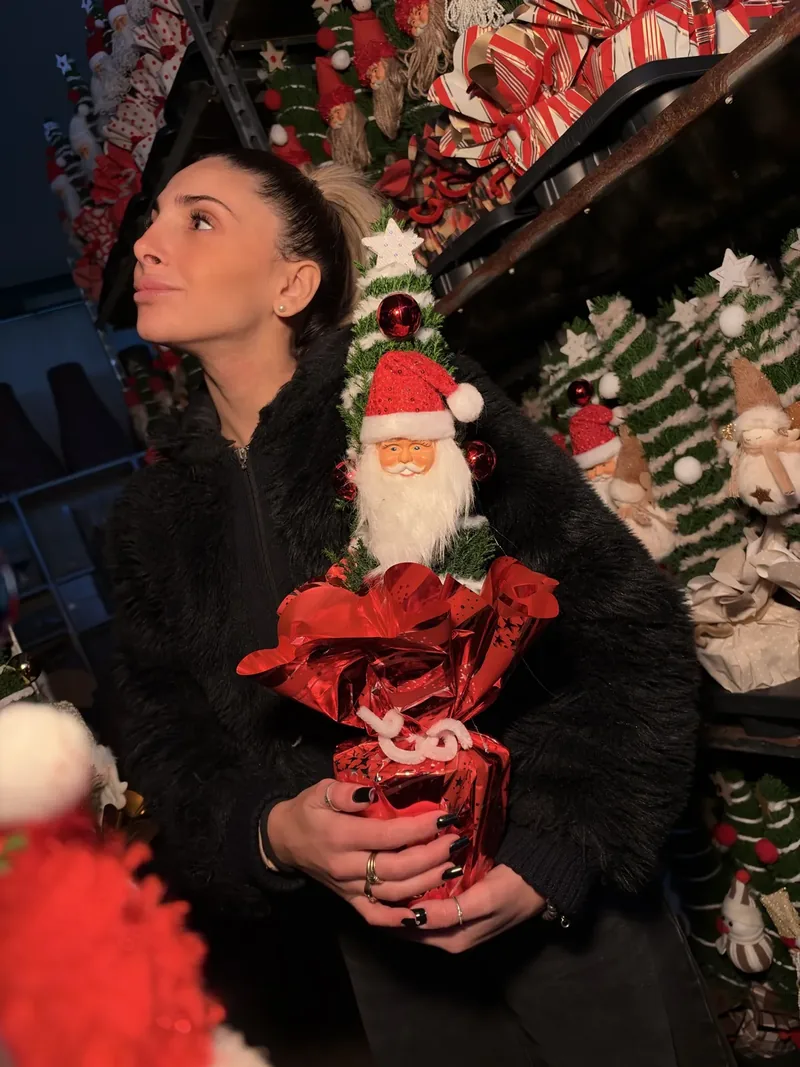
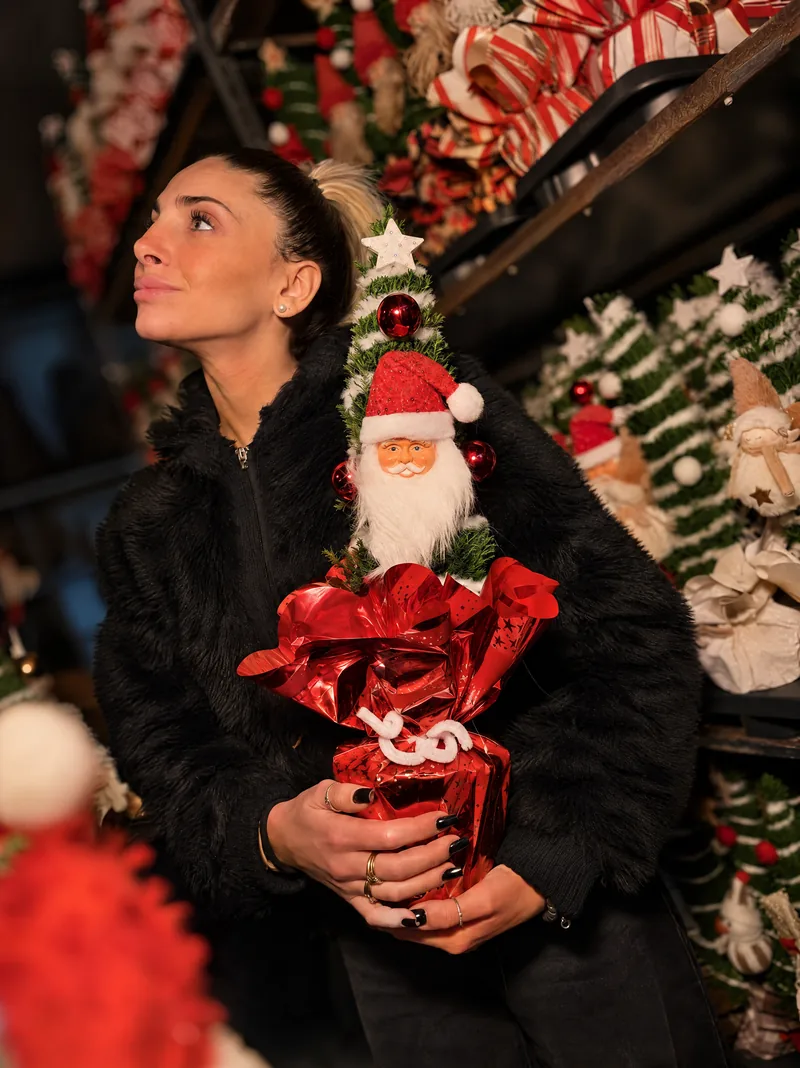
Aggiornamento: foto 4K, collezione per misura, menu

diff --git a/fr/index.html b/fr/index.html
@@ -13,7 +13,7 @@
 <link rel="icon" href="../img/brand/favicon.png"><link rel="apple-touch-icon" href="../img/brand/favicon.png">
 <link rel="preconnect" href="https://fonts.googleapis.com"><link rel="preconnect" href="https://fonts.gstatic.com" crossorigin>
 <link href="https://fonts.googleapis.com/css2?family=Bodoni+Moda:ital,opsz,wght@0,6..96,400..600;1,6..96,400..600&family=Hanken+Grotesk:wght@400;500;600&display=swap" rel="stylesheet">
-<link rel="preload" as="image" href="../img/foto/corsia-luci.webp" imagesrcset="../img/foto/corsia-luci-800.webp 800w, ../img/foto/corsia-luci.webp 1086w" imagesizes="(max-width: 900px) 100vw, 50vw">
+<link rel="preload" as="image" href="../img/foto/corsia-luci.webp" imagesrcset="../img/foto/corsia-luci-800.webp 800w, ../img/foto/corsia-luci.webp 1600w" imagesizes="(max-width: 900px) 100vw, 50vw">
 <link rel="stylesheet" href="../assets/style.css">
 <script type="application/ld+json">{"@context": "https://schema.org", "@type": "Organization", "name": "L'ArcaVerde S.r.l.", "url": "https://larcaverde.com/", "logo": "https://larcaverde.com/img/brand/logo-verde-web.png", "email": "info@larcaverde.com", "telephone": "+39 0744 303773", "vatID": "IT01509760557", "address": {"@type": "PostalAddress", "streetAddress": "Voc. La Selva", "postalCode": "05100", "addressLocality": "Terni", "addressRegion": "TR", "addressCountry": "IT"}, "sameAs": ["https://www.facebook.com/larcaverde/"]}</script>
 </head>
@@ -31,7 +31,7 @@
 </div></div></header>
 <main id="main">
 <section class="hero">
-<div class="foto"><img src="../img/foto/corsia-luci.webp" srcset="../img/foto/corsia-luci-800.webp 800w, ../img/foto/corsia-luci.webp 1086w" sizes="(max-width: 900px) 100vw, 50vw" alt="Allée de l'entrepôt remplie de petits arbres décorés et de lumières" width="1086" height="1448" fetchpriority="high"></div>
+<div class="foto"><img src="../img/foto/corsia-luci.webp" srcset="../img/foto/corsia-luci-800.webp 800w, ../img/foto/corsia-luci.webp 1600w" sizes="(max-width: 900px) 100vw, 50vw" alt="Allée de l'entrepôt remplie de petits arbres décorés et de lumières" width="1600" height="2136" fetchpriority="high"></div>
 <div class="testo">
 <span class="kicker">Terni · Italie · Vente en gros</span>
 <h1>L'essence <em>de Noël</em>, un petit arbre à la fois</h1>
@@ -48,9 +48,9 @@
 </div></section>
 
 <section class="s"><div class="wrap">
-<div class="intesta"><div><span class="kicker">Choisir par style</span><h2>Le style idéal <em>pour votre vitrine</em></h2></div>
-<a class="link" href="collezione.html">Toutes les couleurs →</a></div>
-<div class="tiles"><a class="tile rv" href="collezione.html#c-rosso"><span class="tf"><img src="../img/foto/rosso-davanzale.webp" srcset="../img/foto/rosso-davanzale-800.webp 800w, ../img/foto/rosso-davanzale.webp 896w" sizes="(max-width: 700px) 50vw, 25vw" alt="Petit arbre, emballage rouge" width="896" height="1120" loading="lazy" decoding="async"></span><span class="t-txt"><b>Rouge</b><small>16 modèles</small></span></a><a class="tile rv" href="collezione.html#c-oro"><span class="tf"><img src="../img/foto/oro-camino.webp" srcset="../img/foto/oro-camino-800.webp 800w, ../img/foto/oro-camino.webp 896w" sizes="(max-width: 700px) 50vw, 25vw" alt="Petit arbre, emballage or et argent" width="896" height="1120" loading="lazy" decoding="async"></span><span class="t-txt"><b>Or et argent</b><small>8 modèles</small></span></a><a class="tile rv" href="collezione.html#c-tartan"><span class="tf"><img src="../img/foto/tartan-laboratorio.webp" srcset="../img/foto/tartan-laboratorio-800.webp 800w, ../img/foto/tartan-laboratorio.webp 896w" sizes="(max-width: 700px) 50vw, 25vw" alt="Petit arbre, emballage tartan et carreaux" width="896" height="1120" loading="lazy" decoding="async"></span><span class="t-txt"><b>Tartan et carreaux</b><small>8 modèles</small></span></a><a class="tile rv" href="collezione.html#c-naturale"><span class="tf"><img src="../img/foto/crema-soggiorno.webp" srcset="../img/foto/crema-soggiorno-800.webp 800w, ../img/foto/crema-soggiorno.webp 896w" sizes="(max-width: 700px) 50vw, 25vw" alt="Petit arbre, emballage naturel et crème" width="896" height="1120" loading="lazy" decoding="async"></span><span class="t-txt"><b>Naturel et crème</b><small>7 modèles</small></span></a></div>
+<div class="intesta"><div><span class="kicker">Choisir par taille</span><h2>Quatre tailles, <em>du comptoir à la vitrine</em></h2></div>
+<a class="link" href="collezione.html">Toute la collection →</a></div>
+<div class="tiles"><a class="tile rv" href="collezione.html#vaso-9"><span class="tf"><img src="../img/thumb/004.webp" alt="Petit arbre en pot Ø 9 cm" width="520" height="714" loading="lazy" decoding="async"></span><span class="t-txt"><b>Pot Ø 9 cm</b><small>5 modèles</small></span></a><a class="tile rv" href="collezione.html#vaso-11"><span class="tf"><img src="../img/thumb/008.webp" alt="Petit arbre en pot Ø 11 cm" width="520" height="714" loading="lazy" decoding="async"></span><span class="t-txt"><b>Pot Ø 11 cm</b><small>25 modèles</small></span></a><a class="tile rv" href="collezione.html#vaso-13"><span class="tf"><img src="../img/thumb/027.webp" alt="Petit arbre en pot Ø 13 cm" width="520" height="714" loading="lazy" decoding="async"></span><span class="t-txt"><b>Pot Ø 13 cm</b><small>4 modèles</small></span></a><a class="tile rv" href="collezione.html#vaso-17"><span class="tf"><img src="../img/thumb/043.webp" alt="Petit arbre en pot Ø 17 cm" width="520" height="714" loading="lazy" decoding="async"></span><span class="t-txt"><b>Pot Ø 17 cm</b><small>19 modèles</small></span></a></div>
 </div></section>
 
 <section class="citazione"><div class="wrap rv">
@@ -94,11 +94,11 @@
 <section class="s crema2"><div class="wrap">
 <div class="intesta"><div><span class="kicker">Dans les coulisses</span><h2>Parmi nos <em>rayonnages</em></h2></div></div>
 <div class="mosaico">
-<figure class="rv"><img src="../img/foto/scaffale-caldo.webp" srcset="../img/foto/scaffale-caldo-800.webp 800w, ../img/foto/scaffale-caldo.webp 1200w" sizes="(max-width: 760px) 100vw, 50vw" alt="Étagère de petits arbres avec Pères Noël et emballages colorés" width="1200" height="1600" loading="lazy" decoding="async"><figcaption>Des emballages pour chaque style</figcaption></figure>
-<figure class="rv"><img src="../img/foto/dettaglio.webp" srcset="../img/foto/dettaglio-800.webp 800w, ../img/foto/dettaglio.webp 1200w" sizes="(max-width: 760px) 50vw, 25vw" alt="Détail d'un petit arbre avec un Père Noël" width="1200" height="1600" loading="lazy" decoding="async"></figure>
-<figure class="rv"><img src="../img/foto/scaffale-incarti.webp" srcset="../img/foto/scaffale-incarti-800.webp 800w, ../img/foto/scaffale-incarti.webp 1200w" sizes="(max-width: 760px) 50vw, 25vw" alt="Emballages tartan, à rayures et à pois" width="1200" height="1600" loading="lazy" decoding="async"></figure>
-<figure class="rv"><img src="../img/foto/corsia-alta.webp" srcset="../img/foto/corsia-alta-800.webp 800w, ../img/foto/corsia-alta.webp 1200w" sizes="(max-width: 760px) 50vw, 25vw" alt="Allée entre les étagères" width="1200" height="1600" loading="lazy" decoding="async"></figure>
-<figure class="rv"><img src="../img/foto/ritratto.webp" srcset="../img/foto/ritratto-800.webp 800w, ../img/foto/ritratto.webp 1200w" sizes="(max-width: 760px) 50vw, 25vw" alt="Petit arbre décoré tenu à la main" width="1200" height="1600" loading="lazy" decoding="async"></figure>
+<figure class="rv"><img src="../img/foto/scaffale-caldo.webp" srcset="../img/foto/scaffale-caldo-800.webp 800w, ../img/foto/scaffale-caldo.webp 1600w" sizes="(max-width: 760px) 100vw, 50vw" alt="Étagère de petits arbres avec Pères Noël et emballages colorés" width="1600" height="2136" loading="lazy" decoding="async"><figcaption>Des emballages pour chaque style</figcaption></figure>
+<figure class="rv"><img src="../img/foto/dettaglio.webp" srcset="../img/foto/dettaglio-800.webp 800w, ../img/foto/dettaglio.webp 1600w" sizes="(max-width: 760px) 50vw, 25vw" alt="Détail d'un petit arbre avec un Père Noël" width="1600" height="2136" loading="lazy" decoding="async"></figure>
+<figure class="rv"><img src="../img/foto/scaffale-incarti.webp" srcset="../img/foto/scaffale-incarti-800.webp 800w, ../img/foto/scaffale-incarti.webp 1600w" sizes="(max-width: 760px) 50vw, 25vw" alt="Emballages tartan, à rayures et à pois" width="1600" height="2136" loading="lazy" decoding="async"></figure>
+<figure class="rv"><img src="../img/foto/corsia-alta.webp" srcset="../img/foto/corsia-alta-800.webp 800w, ../img/foto/corsia-alta.webp 1600w" sizes="(max-width: 760px) 50vw, 25vw" alt="Allée entre les étagères" width="1600" height="2136" loading="lazy" decoding="async"></figure>
+<figure class="rv"><img src="../img/foto/ritratto.webp" srcset="../img/foto/ritratto-800.webp 800w, ../img/foto/ritratto.webp 1600w" sizes="(max-width: 760px) 50vw, 25vw" alt="Petit arbre décoré tenu à la main" width="1600" height="2136" loading="lazy" decoding="async"></figure>
 </div></div></section>
 
 <section class="s"><div class="wrap">

diff --git a/en/index.html b/en/index.html
@@ -13,7 +13,7 @@
 <link rel="icon" href="../img/brand/favicon.png"><link rel="apple-touch-icon" href="../img/brand/favicon.png">
 <link rel="preconnect" href="https://fonts.googleapis.com"><link rel="preconnect" href="https://fonts.gstatic.com" crossorigin>
 <link href="https://fonts.googleapis.com/css2?family=Bodoni+Moda:ital,opsz,wght@0,6..96,400..600;1,6..96,400..600&family=Hanken+Grotesk:wght@400;500;600&display=swap" rel="stylesheet">
-<link rel="preload" as="image" href="../img/foto/corsia-luci.webp" imagesrcset="../img/foto/corsia-luci-800.webp 800w, ../img/foto/corsia-luci.webp 1086w" imagesizes="(max-width: 900px) 100vw, 50vw">
+<link rel="preload" as="image" href="../img/foto/corsia-luci.webp" imagesrcset="../img/foto/corsia-luci-800.webp 800w, ../img/foto/corsia-luci.webp 1600w" imagesizes="(max-width: 900px) 100vw, 50vw">
 <link rel="stylesheet" href="../assets/style.css">
 <script type="application/ld+json">{"@context": "https://schema.org", "@type": "Organization", "name": "L'ArcaVerde S.r.l.", "url": "https://larcaverde.com/", "logo": "https://larcaverde.com/img/brand/logo-verde-web.png", "email": "info@larcaverde.com", "telephone": "+39 0744 303773", "vatID": "IT01509760557", "address": {"@type": "PostalAddress", "streetAddress": "Voc. La Selva", "postalCode": "05100", "addressLocality": "Terni", "addressRegion": "TR", "addressCountry": "IT"}, "sameAs": ["https://www.facebook.com/larcaverde/"]}</script>
 </head>
@@ -31,7 +31,7 @@
 </div></div></header>
 <main id="main">
 <section class="hero">
-<div class="foto"><img src="../img/foto/corsia-luci.webp" srcset="../img/foto/corsia-luci-800.webp 800w, ../img/foto/corsia-luci.webp 1086w" sizes="(max-width: 900px) 100vw, 50vw" alt="Warehouse aisle full of decorated trees and lights" width="1086" height="1448" fetchpriority="high"></div>
+<div class="foto"><img src="../img/foto/corsia-luci.webp" srcset="../img/foto/corsia-luci-800.webp 800w, ../img/foto/corsia-luci.webp 1600w" sizes="(max-width: 900px) 100vw, 50vw" alt="Warehouse aisle full of decorated trees and lights" width="1600" height="2136" fetchpriority="high"></div>
 <div class="testo">
 <span class="kicker">Terni · Italy · Wholesale</span>
 <h1>The essence <em>of Christmas</em>, one tree at a time</h1>
@@ -48,9 +48,9 @@
 </div></section>
 
 <section class="s"><div class="wrap">
-<div class="intesta"><div><span class="kicker">Shop by style</span><h2>The right style <em>for your window</em></h2></div>
-<a class="link" href="collezione.html">All colours →</a></div>
-<div class="tiles"><a class="tile rv" href="collezione.html#c-rosso"><span class="tf"><img src="../img/foto/rosso-davanzale.webp" srcset="../img/foto/rosso-davanzale-800.webp 800w, ../img/foto/rosso-davanzale.webp 896w" sizes="(max-width: 700px) 50vw, 25vw" alt="Tree with red wrapping" width="896" height="1120" loading="lazy" decoding="async"></span><span class="t-txt"><b>Red</b><small>16 models</small></span></a><a class="tile rv" href="collezione.html#c-oro"><span class="tf"><img src="../img/foto/oro-camino.webp" srcset="../img/foto/oro-camino-800.webp 800w, ../img/foto/oro-camino.webp 896w" sizes="(max-width: 700px) 50vw, 25vw" alt="Tree with gold & silver wrapping" width="896" height="1120" loading="lazy" decoding="async"></span><span class="t-txt"><b>Gold & silver</b><small>8 models</small></span></a><a class="tile rv" href="collezione.html#c-tartan"><span class="tf"><img src="../img/foto/tartan-laboratorio.webp" srcset="../img/foto/tartan-laboratorio-800.webp 800w, ../img/foto/tartan-laboratorio.webp 896w" sizes="(max-width: 700px) 50vw, 25vw" alt="Tree with tartan & check wrapping" width="896" height="1120" loading="lazy" decoding="async"></span><span class="t-txt"><b>Tartan & check</b><small>8 models</small></span></a><a class="tile rv" href="collezione.html#c-naturale"><span class="tf"><img src="../img/foto/crema-soggiorno.webp" srcset="../img/foto/crema-soggiorno-800.webp 800w, ../img/foto/crema-soggiorno.webp 896w" sizes="(max-width: 700px) 50vw, 25vw" alt="Tree with natural & cream wrapping" width="896" height="1120" loading="lazy" decoding="async"></span><span class="t-txt"><b>Natural & cream</b><small>7 models</small></span></a></div>
+<div class="intesta"><div><span class="kicker">Shop by size</span><h2>Four sizes, <em>from counter to window</em></h2></div>
+<a class="link" href="collezione.html">Whole collection →</a></div>
+<div class="tiles"><a class="tile rv" href="collezione.html#vaso-9"><span class="tf"><img src="../img/thumb/004.webp" alt="Tree in pot Ø 9 cm" width="520" height="714" loading="lazy" decoding="async"></span><span class="t-txt"><b>Pot Ø 9 cm</b><small>5 models</small></span></a><a class="tile rv" href="collezione.html#vaso-11"><span class="tf"><img src="../img/thumb/008.webp" alt="Tree in pot Ø 11 cm" width="520" height="714" loading="lazy" decoding="async"></span><span class="t-txt"><b>Pot Ø 11 cm</b><small>25 models</small></span></a><a class="tile rv" href="collezione.html#vaso-13"><span class="tf"><img src="../img/thumb/027.webp" alt="Tree in pot Ø 13 cm" width="520" height="714" loading="lazy" decoding="async"></span><span class="t-txt"><b>Pot Ø 13 cm</b><small>4 models</small></span></a><a class="tile rv" href="collezione.html#vaso-17"><span class="tf"><img src="../img/thumb/043.webp" alt="Tree in pot Ø 17 cm" width="520" height="714" loading="lazy" decoding="async"></span><span class="t-txt"><b>Pot Ø 17 cm</b><small>19 models</small></span></a></div>
 </div></section>
 
 <section class="citazione"><div class="wrap rv">
@@ -94,11 +94,11 @@
 <section class="s crema2"><div class="wrap">
 <div class="intesta"><div><span class="kicker">Behind the scenes</span><h2>Among our <em>shelves</em></h2></div></div>
 <div class="mosaico">
-<figure class="rv"><img src="../img/foto/scaffale-caldo.webp" srcset="../img/foto/scaffale-caldo-800.webp 800w, ../img/foto/scaffale-caldo.webp 1200w" sizes="(max-width: 760px) 100vw, 50vw" alt="Shelf of trees with Santa figures and colourful wrappings" width="1200" height="1600" loading="lazy" decoding="async"><figcaption>Wrappings for every style</figcaption></figure>
-<figure class="rv"><img src="../img/foto/dettaglio.webp" srcset="../img/foto/dettaglio-800.webp 800w, ../img/foto/dettaglio.webp 1200w" sizes="(max-width: 760px) 50vw, 25vw" alt="Detail of a tree with a Santa figure" width="1200" height="1600" loading="lazy" decoding="async"></figure>
-<figure class="rv"><img src="../img/foto/scaffale-incarti.webp" srcset="../img/foto/scaffale-incarti-800.webp 800w, ../img/foto/scaffale-incarti.webp 1200w" sizes="(max-width: 760px) 50vw, 25vw" alt="Tartan, striped and polka-dot wrappings" width="1200" height="1600" loading="lazy" decoding="async"></figure>
-<figure class="rv"><img src="../img/foto/corsia-alta.webp" srcset="../img/foto/corsia-alta-800.webp 800w, ../img/foto/corsia-alta.webp 1200w" sizes="(max-width: 760px) 50vw, 25vw" alt="Aisle between the shelves" width="1200" height="1600" loading="lazy" decoding="async"></figure>
-<figure class="rv"><img src="../img/foto/ritratto.webp" srcset="../img/foto/ritratto-800.webp 800w, ../img/foto/ritratto.webp 1200w" sizes="(max-width: 760px) 50vw, 25vw" alt="Decorated tree held in hand" width="1200" height="1600" loading="lazy" decoding="async"></figure>
+<figure class="rv"><img src="../img/foto/scaffale-caldo.webp" srcset="../img/foto/scaffale-caldo-800.webp 800w, ../img/foto/scaffale-caldo.webp 1600w" sizes="(max-width: 760px) 100vw, 50vw" alt="Shelf of trees with Santa figures and colourful wrappings" width="1600" height="2136" loading="lazy" decoding="async"><figcaption>Wrappings for every style</figcaption></figure>
+<figure class="rv"><img src="../img/foto/dettaglio.webp" srcset="../img/foto/dettaglio-800.webp 800w, ../img/foto/dettaglio.webp 1600w" sizes="(max-width: 760px) 50vw, 25vw" alt="Detail of a tree with a Santa figure" width="1600" height="2136" loading="lazy" decoding="async"></figure>
+<figure class="rv"><img src="../img/foto/scaffale-incarti.webp" srcset="../img/foto/scaffale-incarti-800.webp 800w, ../img/foto/scaffale-incarti.webp 1600w" sizes="(max-width: 760px) 50vw, 25vw" alt="Tartan, striped and polka-dot wrappings" width="1600" height="2136" loading="lazy" decoding="async"></figure>
+<figure class="rv"><img src="../img/foto/corsia-alta.webp" srcset="../img/foto/corsia-alta-800.webp 800w, ../img/foto/corsia-alta.webp 1600w" sizes="(max-width: 760px) 50vw, 25vw" alt="Aisle between the shelves" width="1600" height="2136" loading="lazy" decoding="async"></figure>
+<figure class="rv"><img src="../img/foto/ritratto.webp" srcset="../img/foto/ritratto-800.webp 800w, ../img/foto/ritratto.webp 1600w" sizes="(max-width: 760px) 50vw, 25vw" alt="Decorated tree held in hand" width="1600" height="2136" loading="lazy" decoding="async"></figure>
 </div></div></section>
 
 <section class="s"><div class="wrap">

diff --git a/index.html b/index.html
@@ -13,7 +13,7 @@
 <link rel="icon" href="img/brand/favicon.png"><link rel="apple-touch-icon" href="img/brand/favicon.png">
 <link rel="preconnect" href="https://fonts.googleapis.com"><link rel="preconnect" href="https://fonts.gstatic.com" crossorigin>
 <link href="https://fonts.googleapis.com/css2?family=Bodoni+Moda:ital,opsz,wght@0,6..96,400..600;1,6..96,400..600&family=Hanken+Grotesk:wght@400;500;600&display=swap" rel="stylesheet">
-<link rel="preload" as="image" href="img/foto/corsia-luci.webp" imagesrcset="img/foto/corsia-luci-800.webp 800w, img/foto/corsia-luci.webp 1086w" imagesizes="(max-width: 900px) 100vw, 50vw">
+<link rel="preload" as="image" href="img/foto/corsia-luci.webp" imagesrcset="img/foto/corsia-luci-800.webp 800w, img/foto/corsia-luci.webp 1600w" imagesizes="(max-width: 900px) 100vw, 50vw">
 <link rel="stylesheet" href="assets/style.css">
 <script type="application/ld+json">{"@context": "https://schema.org", "@type": "Organization", "name": "L'ArcaVerde S.r.l.", "url": "https://larcaverde.com/", "logo": "https://larcaverde.com/img/brand/logo-verde-web.png", "email": "info@larcaverde.com", "telephone": "+39 0744 303773", "vatID": "IT01509760557", "address": {"@type": "PostalAddress", "streetAddress": "Voc. La Selva", "postalCode": "05100", "addressLocality": "Terni", "addressRegion": "TR", "addressCountry": "IT"}, "sameAs": ["https://www.facebook.com/larcaverde/"]}</script>
 </head>
@@ -31,7 +31,7 @@
 </div></div></header>
 <main id="main">
 <section class="hero">
-<div class="foto"><img src="img/foto/corsia-luci.webp" srcset="img/foto/corsia-luci-800.webp 800w, img/foto/corsia-luci.webp 1086w" sizes="(max-width: 900px) 100vw, 50vw" alt="Corridoio del magazzino pieno di alberelli decorati e luci" width="1086" height="1448" fetchpriority="high"></div>
+<div class="foto"><img src="img/foto/corsia-luci.webp" srcset="img/foto/corsia-luci-800.webp 800w, img/foto/corsia-luci.webp 1600w" sizes="(max-width: 900px) 100vw, 50vw" alt="Corridoio del magazzino pieno di alberelli decorati e luci" width="1600" height="2136" fetchpriority="high"></div>
 <div class="testo">
 <span class="kicker">Terni · Italia · Ingrosso</span>
 <h1>L'essenza <em>del Natale</em>, un alberello alla volta</h1>
@@ -48,9 +48,9 @@
 </div></section>
 
 <section class="s"><div class="wrap">
-<div class="intesta"><div><span class="kicker">Trova il tuo stile</span><h2>Lo stile giusto <em>per la tua vetrina</em></h2></div>
-<a class="link" href="collezione.html">Tutti i colori →</a></div>
-<div class="tiles"><a class="tile rv" href="collezione.html#c-rosso"><span class="tf"><img src="img/foto/rosso-davanzale.webp" srcset="img/foto/rosso-davanzale-800.webp 800w, img/foto/rosso-davanzale.webp 896w" sizes="(max-width: 700px) 50vw, 25vw" alt="Alberello con incarto rosso" width="896" height="1120" loading="lazy" decoding="async"></span><span class="t-txt"><b>Rosso</b><small>16 modelli</small></span></a><a class="tile rv" href="collezione.html#c-oro"><span class="tf"><img src="img/foto/oro-camino.webp" srcset="img/foto/oro-camino-800.webp 800w, img/foto/oro-camino.webp 896w" sizes="(max-width: 700px) 50vw, 25vw" alt="Alberello con incarto oro e argento" width="896" height="1120" loading="lazy" decoding="async"></span><span class="t-txt"><b>Oro e argento</b><small>8 modelli</small></span></a><a class="tile rv" href="collezione.html#c-tartan"><span class="tf"><img src="img/foto/tartan-laboratorio.webp" srcset="img/foto/tartan-laboratorio-800.webp 800w, img/foto/tartan-laboratorio.webp 896w" sizes="(max-width: 700px) 50vw, 25vw" alt="Alberello con incarto tartan e quadri" width="896" height="1120" loading="lazy" decoding="async"></span><span class="t-txt"><b>Tartan e quadri</b><small>8 modelli</small></span></a><a class="tile rv" href="collezione.html#c-naturale"><span class="tf"><img src="img/foto/crema-soggiorno.webp" srcset="img/foto/crema-soggiorno-800.webp 800w, img/foto/crema-soggiorno.webp 896w" sizes="(max-width: 700px) 50vw, 25vw" alt="Alberello con incarto naturale e crema" width="896" height="1120" loading="lazy" decoding="async"></span><span class="t-txt"><b>Naturale e crema</b><small>7 modelli</small></span></a></div>
+<div class="intesta"><div><span class="kicker">Scegli per grandezza</span><h2>Quattro misure, <em>dal banco alla vetrina</em></h2></div>
+<a class="link" href="collezione.html">Tutta la collezione →</a></div>
+<div class="tiles"><a class="tile rv" href="collezione.html#vaso-9"><span class="tf"><img src="img/thumb/004.webp" alt="Alberello in vaso Ø 9 cm" width="520" height="714" loading="lazy" decoding="async"></span><span class="t-txt"><b>Vaso Ø 9 cm</b><small>5 modelli</small></span></a><a class="tile rv" href="collezione.html#vaso-11"><span class="tf"><img src="img/thumb/008.webp" alt="Alberello in vaso Ø 11 cm" width="520" height="714" loading="lazy" decoding="async"></span><span class="t-txt"><b>Vaso Ø 11 cm</b><small>25 modelli</small></span></a><a class="tile rv" href="collezione.html#vaso-13"><span class="tf"><img src="img/thumb/027.webp" alt="Alberello in vaso Ø 13 cm" width="520" height="714" loading="lazy" decoding="async"></span><span class="t-txt"><b>Vaso Ø 13 cm</b><small>4 modelli</small></span></a><a class="tile rv" href="collezione.html#vaso-17"><span class="tf"><img src="img/thumb/043.webp" alt="Alberello in vaso Ø 17 cm" width="520" height="714" loading="lazy" decoding="async"></span><span class="t-txt"><b>Vaso Ø 17 cm</b><small>19 modelli</small></span></a></div>
 </div></section>
 
 <section class="citazione"><div class="wrap rv">
@@ -94,11 +94,11 @@
 <section class="s crema2"><div class="wrap">
 <div class="intesta"><div><span class="kicker">Dietro le quinte</span><h2>Tra i nostri <em>scaffali</em></h2></div></div>
 <div class="mosaico">
-<figure class="rv"><img src="img/foto/scaffale-caldo.webp" srcset="img/foto/scaffale-caldo-800.webp 800w, img/foto/scaffale-caldo.webp 1200w" sizes="(max-width: 760px) 100vw, 50vw" alt="Scaffale di alberelli con Babbo Natale e incarti colorati" width="1200" height="1600" loading="lazy" decoding="async"><figcaption>Incarti per ogni stile</figcaption></figure>
-<figure class="rv"><img src="img/foto/dettaglio.webp" srcset="img/foto/dettaglio-800.webp 800w, img/foto/dettaglio.webp 1200w" sizes="(max-width: 760px) 50vw, 25vw" alt="Dettaglio di un alberello con Babbo Natale" width="1200" height="1600" loading="lazy" decoding="async"></figure>
-<figure class="rv"><img src="img/foto/scaffale-incarti.webp" srcset="img/foto/scaffale-incarti-800.webp 800w, img/foto/scaffale-incarti.webp 1200w" sizes="(max-width: 760px) 50vw, 25vw" alt="Incarti tartan, a righe e a pois" width="1200" height="1600" loading="lazy" decoding="async"></figure>
-<figure class="rv"><img src="img/foto/corsia-alta.webp" srcset="img/foto/corsia-alta-800.webp 800w, img/foto/corsia-alta.webp 1200w" sizes="(max-width: 760px) 50vw, 25vw" alt="Corridoio tra gli scaffali" width="1200" height="1600" loading="lazy" decoding="async"></figure>
-<figure class="rv"><img src="img/foto/ritratto.webp" srcset="img/foto/ritratto-800.webp 800w, img/foto/ritratto.webp 1200w" sizes="(max-width: 760px) 50vw, 25vw" alt="Alberello decorato tenuto in mano" width="1200" height="1600" loading="lazy" decoding="async"></figure>
+<figure class="rv"><img src="img/foto/scaffale-caldo.webp" srcset="img/foto/scaffale-caldo-800.webp 800w, img/foto/scaffale-caldo.webp 1600w" sizes="(max-width: 760px) 100vw, 50vw" alt="Scaffale di alberelli con Babbo Natale e incarti colorati" width="1600" height="2136" loading="lazy" decoding="async"><figcaption>Incarti per ogni stile</figcaption></figure>
+<figure class="rv"><img src="img/foto/dettaglio.webp" srcset="img/foto/dettaglio-800.webp 800w, img/foto/dettaglio.webp 1600w" sizes="(max-width: 760px) 50vw, 25vw" alt="Dettaglio di un alberello con Babbo Natale" width="1600" height="2136" loading="lazy" decoding="async"></figure>
+<figure class="rv"><img src="img/foto/scaffale-incarti.webp" srcset="img/foto/scaffale-incarti-800.webp 800w, img/foto/scaffale-incarti.webp 1600w" sizes="(max-width: 760px) 50vw, 25vw" alt="Incarti tartan, a righe e a pois" width="1600" height="2136" loading="lazy" decoding="async"></figure>
+<figure class="rv"><img src="img/foto/corsia-alta.webp" srcset="img/foto/corsia-alta-800.webp 800w, img/foto/corsia-alta.webp 1600w" sizes="(max-width: 760px) 50vw, 25vw" alt="Corridoio tra gli scaffali" width="1600" height="2136" loading="lazy" decoding="async"></figure>
+<figure class="rv"><img src="img/foto/ritratto.webp" srcset="img/foto/ritratto-800.webp 800w, img/foto/ritratto.webp 1600w" sizes="(max-width: 760px) 50vw, 25vw" alt="Alberello decorato tenuto in mano" width="1600" height="2136" loading="lazy" decoding="async"></figure>
 </div></div></section>
 
 <section class="s"><div class="wrap">

diff --git a/fr/collezione.html b/fr/collezione.html
@@ -33,18 +33,17 @@
 <section class="ph-head con-foto"><div class="wrap ph-grid">
 <div><span class="kicker">Collection Noël</span>
 <h1>53 petits arbres décorés, <em>un pour chaque vitrine</em></h1>
-<p class="lead">De vraies plantes, Chamaecyparis ellwoodii et Picea conica, décorées et emballées. Filtrez par taille de pot et par couleur, ouvrez un modèle et ajoutez-le à votre liste de demande.</p></div>
+<p class="lead">De vraies plantes, Chamaecyparis ellwoodii et Picea conica, décorées et emballées. Classées par taille de pot&nbsp;: ouvrez un modèle et ajoutez-le à votre liste de demande.</p></div>
 <div class="ph-img"><img src="../img/foto/quattro-mensola.webp" srcset="../img/foto/quattro-mensola-800.webp 800w, ../img/foto/quattro-mensola.webp 1344w" sizes="(max-width: 860px) 100vw, 45vw" alt="Quatre petits arbres décorés sur une étagère" width="1344" height="752"></div>
 </div></section>
 <section class="s cat"><div class="wrap">
 <div class="filtri">
 <div class="g"><span class="t">Pot</span><div class="chips"><button class="chip" type="button" data-f="v" data-val="" aria-pressed="true">Tous</button><button class="chip" type="button" data-f="v" data-val="9" aria-pressed="false">Ø 9 cm</button><button class="chip" type="button" data-f="v" data-val="11" aria-pressed="false">Ø 11 cm</button><button class="chip" type="button" data-f="v" data-val="13" aria-pressed="false">Ø 13 cm</button><button class="chip" type="button" data-f="v" data-val="17" aria-pressed="false">Ø 17 cm</button></div></div>
 <div class="g"><span class="t">Plante</span><div class="chips"><button class="chip" type="button" data-f="s" data-val="" aria-pressed="true">Toutes</button><button class="chip" type="button" data-f="s" data-val="Chamaecyparis ellwoodii" aria-pressed="false"><i>Chamaecyparis</i></button><button class="chip" type="button" data-f="s" data-val="Picea conica" aria-pressed="false"><i>Picea conica</i></button></div></div>
-<div class="g"><span class="t">Couleur de l'emballage</span><div class="chips" id="chips-colore"></div></div>
 <div class="g g-cerca"><label class="t" for="cerca">Référence</label><input id="cerca" class="cerca" inputmode="numeric" autocomplete="off" placeholder="ex. 024"></div>
 </div>
 <div class="stato"><span class="conta" id="conta" aria-live="polite"></span><button type="button" class="azzera">Réinitialiser les filtres</button></div>
-<div class="griglia" id="catalogo"></div>
+<div id="catalogo"></div>
 <p class="vuoto">Aucun modèle ne correspond à ces filtres.</p>
 </div></section>
 <section class="banda"><img src="../img/foto/tre-alberelli.webp" srcset="../img/foto/tre-alberelli-800.webp 800w, ../img/foto/tre-alberelli.webp 1344w" sizes="100vw" alt="" width="1344" height="752" loading="lazy" decoding="async">

diff --git a/collezione.html b/collezione.html
@@ -33,18 +33,17 @@
 <section class="ph-head con-foto"><div class="wrap ph-grid">
 <div><span class="kicker">Collezione Natale</span>
 <h1>53 alberelli decorati, <em>uno per ogni vetrina</em></h1>
-<p class="lead">Piante vere, Chamaecyparis ellwoodii e Picea conica, decorate e incartate. Filtra per vaso e colore, apri un modello e aggiungilo alla tua lista richiesta.</p></div>
+<p class="lead">Piante vere, Chamaecyparis ellwoodii e Picea conica, decorate e incartate. Ordinate per misura del vaso: apri un modello e aggiungilo alla tua lista richiesta.</p></div>
 <div class="ph-img"><img src="img/foto/quattro-mensola.webp" srcset="img/foto/quattro-mensola-800.webp 800w, img/foto/quattro-mensola.webp 1344w" sizes="(max-width: 860px) 100vw, 45vw" alt="Quattro alberelli decorati su una mensola" width="1344" height="752"></div>
 </div></section>
 <section class="s cat"><div class="wrap">
 <div class="filtri">
 <div class="g"><span class="t">Vaso</span><div class="chips"><button class="chip" type="button" data-f="v" data-val="" aria-pressed="true">Tutti</button><button class="chip" type="button" data-f="v" data-val="9" aria-pressed="false">Ø 9 cm</button><button class="chip" type="button" data-f="v" data-val="11" aria-pressed="false">Ø 11 cm</button><button class="chip" type="button" data-f="v" data-val="13" aria-pressed="false">Ø 13 cm</button><button class="chip" type="button" data-f="v" data-val="17" aria-pressed="false">Ø 17 cm</button></div></div>
 <div class="g"><span class="t">Pianta</span><div class="chips"><button class="chip" type="button" data-f="s" data-val="" aria-pressed="true">Tutte</button><button class="chip" type="button" data-f="s" data-val="Chamaecyparis ellwoodii" aria-pressed="false"><i>Chamaecyparis</i></button><button class="chip" type="button" data-f="s" data-val="Picea conica" aria-pressed="false"><i>Picea conica</i></button></div></div>
-<div class="g"><span class="t">Colore incarto</span><div class="chips" id="chips-colore"></div></div>
 <div class="g g-cerca"><label class="t" for="cerca">Codice</label><input id="cerca" class="cerca" inputmode="numeric" autocomplete="off" placeholder="es. 024"></div>
 </div>
 <div class="stato"><span class="conta" id="conta" aria-live="polite"></span><button type="button" class="azzera">Azzera filtri</button></div>
-<div class="griglia" id="catalogo"></div>
+<div id="catalogo"></div>
 <p class="vuoto">Nessun modello con questi filtri.</p>
 </div></section>
 <section class="banda"><img src="img/foto/tre-alberelli.webp" srcset="img/foto/tre-alberelli-800.webp 800w, img/foto/tre-alberelli.webp 1344w" sizes="100vw" alt="" width="1344" height="752" loading="lazy" decoding="async">

diff --git a/en/collezione.html b/en/collezione.html
@@ -33,18 +33,17 @@
 <section class="ph-head con-foto"><div class="wrap ph-grid">
 <div><span class="kicker">Christmas Collection</span>
 <h1>53 decorated trees, <em>one for every window</em></h1>
-<p class="lead">Living plants, Chamaecyparis ellwoodii and Picea conica, decorated and wrapped. Filter by pot size and colour, open a model and add it to your request list.</p></div>
+<p class="lead">Living plants, Chamaecyparis ellwoodii and Picea conica, decorated and wrapped. Grouped by pot size: open a model and add it to your request list.</p></div>
 <div class="ph-img"><img src="../img/foto/quattro-mensola.webp" srcset="../img/foto/quattro-mensola-800.webp 800w, ../img/foto/quattro-mensola.webp 1344w" sizes="(max-width: 860px) 100vw, 45vw" alt="Four decorated trees on a shelf" width="1344" height="752"></div>
 </div></section>
 <section class="s cat"><div class="wrap">
 <div class="filtri">
 <div class="g"><span class="t">Pot</span><div class="chips"><button class="chip" type="button" data-f="v" data-val="" aria-pressed="true">All</button><button class="chip" type="button" data-f="v" data-val="9" aria-pressed="false">Ø 9 cm</button><button class="chip" type="button" data-f="v" data-val="11" aria-pressed="false">Ø 11 cm</button><button class="chip" type="button" data-f="v" data-val="13" aria-pressed="false">Ø 13 cm</button><button class="chip" type="button" data-f="v" data-val="17" aria-pressed="false">Ø 17 cm</button></div></div>
 <div class="g"><span class="t">Plant</span><div class="chips"><button class="chip" type="button" data-f="s" data-val="" aria-pressed="true">All</button><button class="chip" type="button" data-f="s" data-val="Chamaecyparis ellwoodii" aria-pressed="false"><i>Chamaecyparis</i></button><button class="chip" type="button" data-f="s" data-val="Picea conica" aria-pressed="false"><i>Picea conica</i></button></div></div>
-<div class="g"><span class="t">Wrapping colour</span><div class="chips" id="chips-colore"></div></div>
 <div class="g g-cerca"><label class="t" for="cerca">Item code</label><input id="cerca" class="cerca" inputmode="numeric" autocomplete="off" placeholder="e.g. 024"></div>
 </div>
 <div class="stato"><span class="conta" id="conta" aria-live="polite"></span><button type="button" class="azzera">Reset filters</button></div>
-<div class="griglia" id="catalogo"></div>
+<div id="catalogo"></div>
 <p class="vuoto">No model matches these filters.</p>
 </div></section>
 <section class="banda"><img src="../img/foto/tre-alberelli.webp" srcset="../img/foto/tre-alberelli-800.webp 800w, ../img/foto/tre-alberelli.webp 1344w" sizes="100vw" alt="" width="1344" height="752" loading="lazy" decoding="async">

diff --git a/assets/app.js b/assets/app.js
@@ -59,7 +59,8 @@ var filtro={v:"",s:"",k:"",q:""},visibili=P;
 function render(){
   var box=$("#catalogo");if(!box)return;
   visibili=P.filter(function(p){return (!filtro.v||p.v==filtro.v)&&(!filtro.s||p.s===filtro.s)&&(!filtro.k||p.k===filtro.k)&&(!filtro.q||p.c.indexOf(filtro.q)>-1)});
-  box.innerHTML=visibili.map(card).join("");
+  box.innerHTML=[9,11,13,17].map(function(v){var g=visibili.filter(function(p){return p.v==v});if(!g.length)return "";
+    return '<section class="gruppo" id="g-'+v+'"><div class="g-testa"><h2>'+T("Vaso","Pot","Pot")+' Ø '+v+' cm</h2><span>'+g.length+" "+(g.length===1?T("modello","model","modèle"):T("modelli","models","modèles"))+'</span></div><div class="griglia">'+g.map(card).join("")+'</div></section>'}).join("");
   var n=visibili.length;
   $("#conta").textContent=n+" "+(n===1?T("modello","model","modèle"):T("modelli","models","modèles"));
   $(".vuoto").style.display=n?"none":"block";
@@ -68,7 +69,7 @@ function render(){
 }
 function setChip(f,v){filtro[f]=v;$$('.chip[data-f="'+f+'"]').forEach(function(x){x.setAttribute("aria-pressed",String(x.getAttribute("data-val")===v))})}
 if($("#catalogo")){
-  $("#chips-colore").innerHTML='<button class="chip" type="button" data-f="k" data-val="" aria-pressed="true">'+T("Tutti","All","Toutes")+'</button>'+Object.keys(COL).map(function(k){return '<button class="chip" type="button" data-f="k" data-val="'+k+'" aria-pressed="false"><span class="pal" style="background:'+COL[k][3]+'"></span>'+COL[k][I]+'</button>'}).join("");
+  if($("#chips-colore"))$("#chips-colore").innerHTML='<button class="chip" type="button" data-f="k" data-val="" aria-pressed="true">'+T("Tutti","All","Toutes")+'</button>'+Object.keys(COL).map(function(k){return '<button class="chip" type="button" data-f="k" data-val="'+k+'" aria-pressed="false"><span class="pal" style="background:'+COL[k][3]+'"></span>'+COL[k][I]+'</button>'}).join("");
   $$(".chip[data-f]").forEach(function(b){b.addEventListener("click",function(){setChip(b.getAttribute("data-f"),b.getAttribute("data-val"));render()})});
   $("#cerca").addEventListener("input",function(e){filtro.q=e.target.value.replace(/\D/g,"").slice(0,3);render()});
   $(".azzera").addEventListener("click",function(){["v","s","k"].forEach(function(f){setChip(f,"")});filtro.q="";$("#cerca").value="";render()});

diff --git a/fr/azienda.html b/fr/azienda.html
@@ -36,7 +36,7 @@
 <p class="lead">L'ArcaVerde est née à Terni de la passion de la famille Arca pour les plantes et a grandi, une camionnette après l'autre, jusqu'à devenir un fournisseur en gros pour fleuristes et pépinières.</p>
 </div></section>
 <section class="s"><div class="wrap split">
-<div class="ph rv"><img src="../img/foto/sguardo.webp" srcset="../img/foto/sguardo-800.webp 800w, ../img/foto/sguardo.webp 1200w" sizes="(max-width: 860px) 100vw, 50vw" alt="Parmi les étagères de petits arbres de l'entrepôt" width="1200" height="1600" loading="lazy" decoding="async"></div>
+<div class="ph rv"><img src="../img/foto/sguardo.webp" srcset="../img/foto/sguardo-800.webp 800w, ../img/foto/sguardo.webp 1600w" sizes="(max-width: 860px) 100vw, 50vw" alt="Parmi les étagères de petits arbres de l'entrepôt" width="1600" height="2136" loading="lazy" decoding="async"></div>
 <div class="rv"><span class="kicker">Notre histoire</span><div class="filetto"></div>
 <ol class="tl">
 <li><b>Début des années 1980</b><p>Alessandro Arca lance l'activité avec une seule camionnette, en approvisionnant boutiques et pépinières.</p></li>
@@ -51,7 +51,7 @@
 <li class="rv"><span class="ini" aria-hidden="true">A</span><h3>Andrea Arca</h3><p>Directeur de production</p></li>
 </ul></div></section>
 <section class="s verde"><div class="wrap split inv">
-<div class="ph rv"><img src="../img/foto/scaffale-incarti.webp" srcset="../img/foto/scaffale-incarti-800.webp 800w, ../img/foto/scaffale-incarti.webp 1200w" sizes="(max-width: 860px) 100vw, 50vw" alt="Petits arbres emballés de papiers tartan, à rayures et à pois" width="1200" height="1600" loading="lazy" decoding="async"></div>
+<div class="ph rv"><img src="../img/foto/scaffale-incarti.webp" srcset="../img/foto/scaffale-incarti-800.webp 800w, ../img/foto/scaffale-incarti.webp 1600w" sizes="(max-width: 860px) 100vw, 50vw" alt="Petits arbres emballés de papiers tartan, à rayures et à pois" width="1600" height="2136" loading="lazy" decoding="async"></div>
 <div class="rv"><span class="kicker">Pas seulement Noël</span>
 <h2>Des plantes ornementales <em>toute l'année</em></h2>
 <div class="filetto"></div>

diff --git a/assets/style.css b/assets/style.css
@@ -79,7 +79,9 @@ button.link{background:none;border:0;border-bottom:1px solid var(--oro);cursor:p
 @media(max-width:900px){
   :root{--hh:64px}
   .logo img{height:38px}
-  .nav{position:fixed;inset:var(--hh) 0 0 0;background:var(--crema);flex-direction:column;align-items:stretch;gap:0;padding:18px var(--gutter) 120px;overflow:auto;opacity:0;visibility:hidden;transform:translateY(-8px);transition:opacity .35s var(--ease),transform .35s var(--ease),visibility 0s .35s}
+  .top{backdrop-filter:none;-webkit-backdrop-filter:none;background:var(--crema)}
+  .logo,.azioni{position:relative;z-index:2}
+  .nav{position:fixed;inset:0;z-index:1;height:100dvh;background:var(--crema);flex-direction:column;align-items:stretch;gap:0;padding:calc(var(--hh) + 64px) var(--gutter) 60px;overflow:auto;opacity:0;visibility:hidden;transform:translateY(-8px);transition:opacity .35s var(--ease),transform .35s var(--ease),visibility 0s .35s}
   .nav.aperto{opacity:1;visibility:visible;transform:none;transition:opacity .35s var(--ease),transform .35s var(--ease)}
   .nav>a{font:500 34px/1.1 var(--serif);letter-spacing:-.01em;text-transform:none;padding:16px 0;border-bottom:1px solid var(--linea-2)}
   .nav>a:after{display:none}
@@ -152,6 +154,11 @@ section.s{padding:clamp(76px,10vw,140px) 0}
 .citazione footer:before,.citazione footer:after{content:"";width:40px;height:1px;background:var(--oro)}
 
 /* ---------- griglia prodotti ---------- */
+.gruppo+.gruppo{margin-top:clamp(56px,7vw,96px)}
+.g-testa{display:flex;justify-content:space-between;align-items:baseline;gap:16px;border-bottom:1px solid var(--linea);padding-bottom:16px;margin-bottom:28px}
+.g-testa h2{font-size:clamp(28px,3.4vw,42px)}
+.g-testa span{font:600 12px/1 var(--sans);letter-spacing:.14em;text-transform:uppercase;color:var(--oro-t)}
+.tile .tf{background:#EFE8DD}
 .griglia{display:grid;grid-template-columns:repeat(4,1fr);gap:34px 22px}
 @media(max-width:1000px){.griglia{grid-template-columns:repeat(3,1fr)}}
 @media(max-width:700px){.griglia{grid-template-columns:repeat(2,1fr);gap:24px 12px}}

diff --git a/azienda.html b/azienda.html
@@ -36,7 +36,7 @@
 <p class="lead">L'ArcaVerde nasce a Terni dalla passione della famiglia Arca per le piante ed è cresciuta, un furgone alla volta, fino a diventare un fornitore all'ingrosso per fioristi e vivai.</p>
 </div></section>
 <section class="s"><div class="wrap split">
-<div class="ph rv"><img src="img/foto/sguardo.webp" srcset="img/foto/sguardo-800.webp 800w, img/foto/sguardo.webp 1200w" sizes="(max-width: 860px) 100vw, 50vw" alt="Tra gli scaffali di alberelli del magazzino" width="1200" height="1600" loading="lazy" decoding="async"></div>
+<div class="ph rv"><img src="img/foto/sguardo.webp" srcset="img/foto/sguardo-800.webp 800w, img/foto/sguardo.webp 1600w" sizes="(max-width: 860px) 100vw, 50vw" alt="Tra gli scaffali di alberelli del magazzino" width="1600" height="2136" loading="lazy" decoding="async"></div>
 <div class="rv"><span class="kicker">La nostra storia</span><div class="filetto"></div>
 <ol class="tl">
 <li><b>Primi anni '80</b><p>Alessandro Arca avvia l'attività con un solo furgoncino, rifornendo negozi e vivai.</p></li>
@@ -51,7 +51,7 @@
 <li class="rv"><span class="ini" aria-hidden="true">A</span><h3>Andrea Arca</h3><p>Direttore di produzione</p></li>
 </ul></div></section>
 <section class="s verde"><div class="wrap split inv">
-<div class="ph rv"><img src="img/foto/scaffale-incarti.webp" srcset="img/foto/scaffale-incarti-800.webp 800w, img/foto/scaffale-incarti.webp 1200w" sizes="(max-width: 860px) 100vw, 50vw" alt="Alberelli incartati con carte tartan, a righe e a pois" width="1200" height="1600" loading="lazy" decoding="async"></div>
+<div class="ph rv"><img src="img/foto/scaffale-incarti.webp" srcset="img/foto/scaffale-incarti-800.webp 800w, img/foto/scaffale-incarti.webp 1600w" sizes="(max-width: 860px) 100vw, 50vw" alt="Alberelli incartati con carte tartan, a righe e a pois" width="1600" height="2136" loading="lazy" decoding="async"></div>
 <div class="rv"><span class="kicker">Non solo Natale</span>
 <h2>Piante ornamentali <em>tutto l'anno</em></h2>
 <div class="filetto"></div>

diff --git a/en/azienda.html b/en/azienda.html
@@ -36,7 +36,7 @@
 <p class="lead">L'ArcaVerde was born in Terni from the Arca family's passion for plants, and grew one van at a time into a wholesale supplier for florists and nurseries.</p>
 </div></section>
 <section class="s"><div class="wrap split">
-<div class="ph rv"><img src="../img/foto/sguardo.webp" srcset="../img/foto/sguardo-800.webp 800w, ../img/foto/sguardo.webp 1200w" sizes="(max-width: 860px) 100vw, 50vw" alt="Among the shelves of trees in the warehouse" width="1200" height="1600" loading="lazy" decoding="async"></div>
+<div class="ph rv"><img src="../img/foto/sguardo.webp" srcset="../img/foto/sguardo-800.webp 800w, ../img/foto/sguardo.webp 1600w" sizes="(max-width: 860px) 100vw, 50vw" alt="Among the shelves of trees in the warehouse" width="1600" height="2136" loading="lazy" decoding="async"></div>
 <div class="rv"><span class="kicker">Our story</span><div class="filetto"></div>
 <ol class="tl">
 <li><b>Early 1980s</b><p>Alessandro Arca starts the business with a single van, supplying shops and nurseries.</p></li>
@@ -51,7 +51,7 @@
 <li class="rv"><span class="ini" aria-hidden="true">A</span><h3>Andrea Arca</h3><p>Production Director</p></li>
 </ul></div></section>
 <section class="s verde"><div class="wrap split inv">
-<div class="ph rv"><img src="../img/foto/scaffale-incarti.webp" srcset="../img/foto/scaffale-incarti-800.webp 800w, ../img/foto/scaffale-incarti.webp 1200w" sizes="(max-width: 860px) 100vw, 50vw" alt="Trees wrapped in tartan, striped and polka-dot papers" width="1200" height="1600" loading="lazy" decoding="async"></div>
+<div class="ph rv"><img src="../img/foto/scaffale-incarti.webp" srcset="../img/foto/scaffale-incarti-800.webp 800w, ../img/foto/scaffale-incarti.webp 1600w" sizes="(max-width: 860px) 100vw, 50vw" alt="Trees wrapped in tartan, striped and polka-dot papers" width="1600" height="2136" loading="lazy" decoding="async"></div>
 <div class="rv"><span class="kicker">Not only Christmas</span>
 <h2>Ornamental plants <em>all year round</em></h2>
 <div class="filetto"></div>
